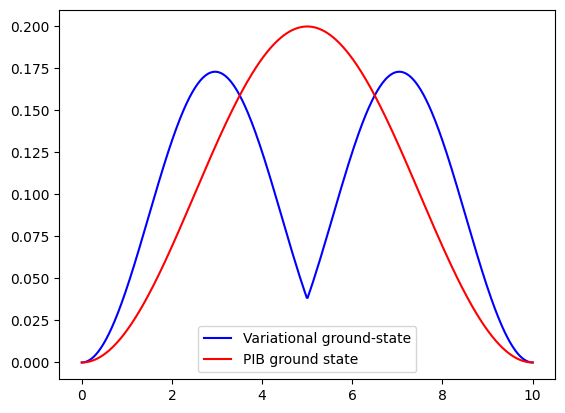
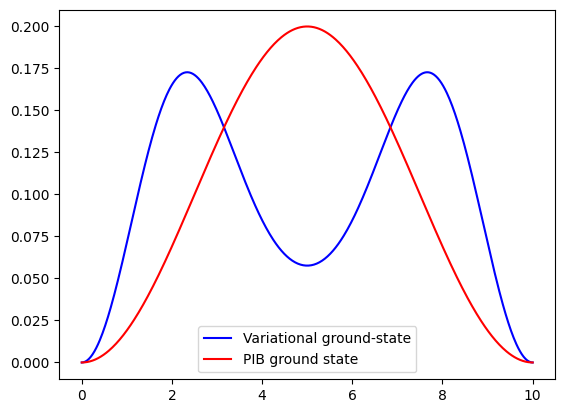
deploy: 4b36f2ce683e69f8d1d3397e4c16ad0eec627a58

diff --git a/searchindex.js b/searchindex.js
@@ -1,1 +1,1 @@
-Search.setIndex({docnames:["guidelines/guidelines","guidelines/intro","guidelines/template","intro","notebooks/fourier_transform","notebooks/linear_variational_method","team","workshops/intro","workshops/workshop2022","workshops/workshop2023"],envversion:{"sphinx.domains.c":2,"sphinx.domains.changeset":1,"sphinx.domains.citation":1,"sphinx.domains.cpp":5,"sphinx.domains.index":1,"sphinx.domains.javascript":2,"sphinx.domains.math":2,"sphinx.domains.python":3,"sphinx.domains.rst":2,"sphinx.domains.std":2,"sphinx.ext.intersphinx":1,"sphinxcontrib.bibtex":9,sphinx:56},filenames:["guidelines/guidelines.md","guidelines/intro.md","guidelines/template.ipynb","intro.md","notebooks/fourier_transform.ipynb","notebooks/linear_variational_method.ipynb","team.md","workshops/intro.md","workshops/workshop2022.md","workshops/workshop2023.md"],objects:{},objnames:{},objtypes:{},terms:{"0":[4,5],"0x7fe105ed8be0":5,"1":[4,9],"10":[4,5,6,9],"1000":4,"104":4,"108355":5,"11":9,"111":4,"12":[4,9],"1369":4,"14":4,"140993":5,"1500":4,"16":4,"165":4,"19":3,"2":4,"20":6,"2022":9,"2023":3,"21":3,"24934802200544676":5,"264":4,"2m":5,"3":[4,5],"30":4,"3x3":5,"4":[4,8,9],"4000":4,"44100":4,"44100hz":4,"45p7tcghgd74yzu77":9,"5":[4,5,6,9],"50":[4,5],"500":5,"5000":4,"50x50":5,"6":[8,9],"645":4,"646":4,"647":4,"649":4,"650":4,"6f":5,"7":[4,9],"70":[3,6],"7723":4,"8":[4,8,9],"800":4,"8000":4,"9":[4,9],"case":[4,5],"do":[0,3,4,5],"float":[4,5],"function":[0,4],"import":[0,2,4,5],"int":5,"new":[3,5,8,9],"return":[4,5],"short":4,"try":[0,4,5],"while":4,A:5,And:4,But:4,By:[2,4,5],For:4,If:[4,9],In:[4,5],Is:5,It:8,No:4,Not:4,On:4,One:4,That:4,The:[4,5,8],Then:4,There:[0,4],To:[4,5],_:4,__init__:4,_ax:4,_n:5,_read_riff_chunk:4,aaa:2,ab:4,abl:[2,4,5,9],about:[4,8],abouv:5,abov:5,access:[3,5],across:3,activ:[8,9],actual:5,add:[4,5],add_subplot:4,adopt:8,advanc:[3,9],against:5,ah:4,airport:9,all:[0,3,4,5,8,9],along:5,alphabet:6,alreadi:8,also:[2,4,5,8],altern:4,am:9,amplitud:[4,5],an:[4,5,9],ani:3,anoth:4,appear:5,appli:[4,5],applic:0,apprecit:3,approxim:5,ar:[0,4,5,6,8],arang:4,area:[4,9],argument:5,arrai:[4,5],artifici:4,asarrai:4,ashlei:9,assign:5,associ:8,astronomi:[3,8],atherton:6,atom:4,attend:9,attende:[8,9],averag:4,avoid:0,ax:4,axi:5,az:8,b:4,back:4,background:0,bai:9,base:8,basi:[4,5],basic:[0,4],bbb:2,beam:4,becaus:[4,5],becom:4,been:8,befor:[5,8],begin:5,below:[6,9],best:[8,9],between:5,bf:5,bin:4,biologi:3,bit:4,blokc:0,blue:5,board:6,bodi:2,bonu:5,both:[4,5],boundari:5,box:5,bra:5,breakfast:9,brenda:6,brian:6,bring:8,britt:6,brows:3,budget:8,build:[0,4,5],buzzer:4,c:[4,5],c_:4,c_m:5,c_n:5,c_opt:5,cal:9,calcul:5,calendar:[3,9],call:[4,5],can:[2,4,5,8],cannot:4,caram:[6,9],casei:6,cast:[4,5],cbook:4,ccc:2,cdot:4,cell:[2,4,5],center:5,chad:6,chanel:3,chang:[4,5],channel:4,chemic:4,chemistri:[3,8],chirp:4,christina:6,clara:3,clean:0,cmap:4,co:[3,4,6,9],code:[0,2,5,8],coeeffici:5,coeffici:[4,5],coher:0,collabor:[3,8],color:5,combin:9,come:[4,9],command:4,comment:0,commun:[6,8],compar:5,complet:[4,9],complex:[4,5],complexwarn:4,complic:4,compress:4,comput:5,computation:8,concept:0,conjug:5,consid:5,construct:4,contact:8,contain:0,content:[0,3],continu:[3,4,5],contribut:[2,3,5,6],contributor:3,convert:4,coordin:5,corner:4,corpor:[3,9],correspond:5,cosin:4,cost:[8,9],cottrel:[6,8],could:5,cours:[8,9],cover:8,covid19:8,craft:0,creat:[0,2,5],credit:3,cut:4,d:[4,5],dai:8,daniel:6,data:4,davit:[6,9],dedic:3,def:[4,5],defin:[4,5],del:4,delai:8,delet:4,delta:[4,5],delta_:5,demonstr:5,deni:6,deriv:5,design:4,develop:8,devot:8,diagon:5,diaton:4,differ:4,differenti:[4,5],dinner:9,dirac:5,directli:8,directori:4,discard:4,discret:4,discuss:[8,9],divid:4,divis:4,document:0,doe:5,doesn:4,domain:4,don:4,done:5,doremi:4,doremi_downscal:4,doremi_sample_r:4,dot:5,downscal:4,dr:2,drop:4,dt:4,due:8,dx:5,e:[4,5],e_n:5,e_opt:5,e_psi_1:5,easi:3,ecosystem:0,edit:6,educ:[3,9],eigenfunct:5,eigenst:5,eigenvalu:5,eigenvector:5,eigh:5,electr:4,element:5,els:[4,5],empti:5,enabl:4,encount:4,end:[2,4,5,8,9],energy_eigenfunct:5,energy_eigenvalu:5,enhanc:9,entri:5,equal:5,equat:[4,5],errno:4,error:4,escip:[6,8],establish:0,estim:5,etc:4,etci:2,euler:4,evalu:5,event:9,evolv:0,exact:5,exactli:4,exampl:[0,4,5],except:5,excess:0,excit:5,exercis:[0,8],exist:8,exp:4,expand:5,expans:5,expect:[4,5],explain:5,explan:0,express:5,f:[4,5],fa:4,faculti:[3,6,8,9],fals:4,fast:4,few:[0,4,5],fft:4,fft_mag:4,fft_out:4,fftpack:4,fid:4,fig:4,fig_siz:4,figur:4,file:4,file_s:4,filenam:4,filenotfounderror:4,fill:[5,9],find:[3,4,5],fingerprint:4,finit:4,first:[2,4,5],fit:9,focus:8,folei:6,follow:[0,5],footstep:4,form:9,forward:5,fouriertransform:4,frac:[4,5],free:[0,4,9],frequenc:4,from:[0,4,5,8,9],fs:4,ft:4,ftir:4,functio:5,g:[4,5],gener:[5,9],geoff:6,geoffrei:4,get:4,ghz:4,github:9,given:[4,5],gle:9,go:[4,5],goal:8,goe:5,good:5,grace:[6,8,9],graph:4,group:9,grow:6,h:[4,5],h_12:5,h_33:5,h_:5,h_mn:5,h_nm:5,ha:[5,8],had:4,hamiltonian:5,hamiltonian_matrix:5,hamiltonian_matrix_el:5,hand:[4,5],hat:5,have:[0,4,5,8],hbar:5,hc:5,heavili:4,height:4,held:[8,9],help:[5,9],helper:[4,5],here:[4,5],high:4,higher:[4,5],highli:3,hit:4,hold:3,hostedtoolcach:4,hotel:9,hous:8,how:[0,4,5],http:9,huge:4,hutchinson:6,hutchison:4,hydrogen:4,hz:4,i:[4,5],idea:4,identifi:5,idx:5,ifft:4,illustr:5,imag:4,imaginari:4,immedi:8,impact:5,improv:[4,5,8],includ:[5,8],incorpor:8,increas:[4,5],index:5,indic:[4,5],individu:[8,9],infin:4,inform:9,infti:4,initi:[3,5],input_sign:4,insert:2,insid:0,insight:5,instruct:5,instructor:[3,9],instrument:4,int_0:5,int_:4,integr:[4,5,9],intens:4,interact:0,interest:[3,8,9],introduc:4,introduct:9,invers:4,io:[4,9],iowa:9,ipywdiget:0,is_big_endian:4,ix:4,j:5,jan:3,join:3,jonathan:6,jpeg:4,juli:8,jupyt:[0,3,8],just:5,justin:[6,9],k:4,k_:4,keedi:6,keep:0,ket:5,keynot:9,keyword:[2,4],kinet:5,know:[4,5,9],kroneck:5,l:[4,5],label:5,lambda:4,laplac:4,last:4,later:5,learn:[0,3,8,9],least:4,left:[4,5],legend:5,len:4,length:[4,5],let:4,lib:[2,4],librari:[0,5],lightn:9,like:4,limit:4,linalg:5,line:4,link:[0,2],linspac:[4,5],list:[0,5,6,9],ll:4,local:4,locat:9,lodg:9,log10:4,londergan:6,look:[4,5],loop:5,lot:4,low:4,lower:[4,5],lowest:5,luchko:[6,9],lui:9,lunch:9,lundgren:6,m:[4,5],magnitud:4,mai:9,main:4,major:8,mambaforg:4,mani:[3,6],manufactur:4,map:4,mark:[3,9],markland:9,mass:5,materi:[0,9],math:4,mathrm:4,matplotlib:[0,2,4,5],matrix:5,matter:4,mcdonald:9,me:4,meal:[8,9],meet:[3,8],member:6,memori:4,mhz:4,mi:4,mid:5,middl:5,might:4,mile:9,minim:5,minimum:0,minor:4,mix:5,mmap:4,model:5,molecular:4,molssi:9,mono:4,montana:9,more:[4,5,8,9],most:4,mostli:4,movement:4,mp3:4,mr:2,much:[0,4],multipl:4,must:9,n:[4,5],n_basi:5,name:6,nation:3,natur:4,need:[4,5,9],neq:5,nest:5,network:3,neufeldt:9,next:5,nm:5,nmr:4,nois:4,none:4,normal:5,northridg:9,notat:[4,5],note:[4,5],notebook:[3,4,8],notic:[4,5],novic:8,now:5,np:[2,4,5],num_sampl:4,number:[4,5,8],numpi:[0,2,4,5],obispo:9,object:0,obtain:5,obvious:4,occur:4,off:4,offset:9,onc:4,one:4,onli:[4,5],open:[3,4],oper:5,opt:4,option:5,orbit:4,ord:0,order:6,ordinari:5,org:9,organ:[8,9],origin:4,other:0,our:[3,4,5,8],out:[4,5,9],outcom:8,outlin:0,outsid:9,over:[3,4,5,6],overlap:4,overton:4,packag:[0,4],panda:0,pandem:8,panel:3,part:4,particl:5,particular:5,peak:4,peculiar:5,pedagogi:8,pep8:0,pereplitsa:6,perfect:4,perform:4,period:4,perturb:5,phase:4,phi:5,phi_g:5,philosphi:0,photochemistri:2,physic:[3,8],pi:[3,4,5,6],pib:5,pittsburgh:4,plasma:4,pleas:[8,9],plot:[4,5],plotli:0,plt:[2,4,5],plu:9,pm:9,point:4,poli:9,posit:5,possibl:[0,4],potenti:5,potoyan:[6,9],ppm:4,practic:[8,9],prefer:0,prerequisit:0,presenc:5,pretti:4,print:5,problem:0,process:4,produc:8,prof:[4,9],program:9,programm:8,project:3,provid:[0,3,5,9],psi:5,psi_1:5,psi_m:5,psi_n:5,purpl:5,put:4,py:4,pyplot:[2,4,5],python3:[0,4],python:[0,4,5,8,9],pyviz:0,quantum:[2,5],r:4,rai:4,rang:[4,5],rapidli:0,rate:4,raw:4,rb:4,rcsa:3,re:4,read:4,real:[4,5],realli:4,reason:[4,5],rec:4,receiv:9,recent:4,recogn:5,reconstruct:4,record:4,red:5,region:4,registr:9,regular:3,reivew:6,rel:4,relat:[2,4],reli:0,remain:4,rememb:4,remov:4,repeat:[4,5],replac:5,report:9,repositori:9,repres:5,requir:4,research:[3,9],reserv:9,resolut:4,resourc:[0,8,9],respect:5,result:[4,5],retreat:9,revamp:8,rfft:4,rfreq:4,right:[3,4,5],rightarrow:4,rigid:0,ring:4,ringer:9,risko:6,rm:5,rsvp:9,rubenstein:6,rubi:6,runtimewarn:4,ryan:6,s:[4,5],s_:5,sai:4,same:[4,5],sampl:[4,5],sample_r:4,san:9,santa:3,scale:[4,5],schedul:8,scholar:[6,8],scholarship:9,scienc:[8,9],scientif:0,scipi:[0,2,4,5],scratch:0,seaborn:0,search:3,second:4,see:[2,4,5,9],seek:5,seem:4,select:[4,8],self:0,separ:4,septemb:9,seri:4,server:4,set:[0,4,5],set_size_inch:4,set_titl:4,set_xlabel:4,set_ylabel:4,setup_graph:4,share:[8,9],sharon:9,sharp:4,shift:4,shot:4,should:[0,2,4,5],show:[0,4,5],shuve:6,signal:[4,5],similar:[4,5],simpl:5,simpler:4,simplifi:4,sin:[4,5],sinc:[4,5],sine:4,sing:4,singl:5,site:4,size:5,sjc:9,skeleton:5,skill:9,slack:3,slice:5,slightli:4,small:9,so:[4,5],softwar:2,sol:4,solut:0,solv:4,some:4,sotr:0,sound:4,sourc:3,space:4,spec:4,specgram:4,special:[0,2,5],specif:4,specifi:5,spectra:4,spectrogram:4,spectroscopi:4,spikei:5,sponsor:9,spot:9,sqrt:[4,5],squar:4,stabl:0,standard:4,stanford:9,start:[4,5],state:9,statement:5,step:5,still:3,stoke:[6,8,9],store:5,student:[0,5],succinct:0,suggest:5,suitabl:4,sullan:6,sum:4,sum_:[4,5],sum_n:5,summari:0,support:[3,8],survei:9,system:5,systemat:5,t:[4,5],take:5,talk:[4,9],target:8,tba:6,teach:[8,9],team:3,technic:8,term:[4,5],test:4,than:[4,5],thank:[3,8],thei:4,theori:[0,5],thi:[2,4,5,8,9],thing:4,think:5,those:4,through:5,tim:6,time:[4,8,9],time_arrai:4,titl:4,togeth:8,tom:9,tool:8,top:6,topic:[2,3],tour:9,traceback:4,train:[3,9],trainor:6,transpos:5,tricki:4,turn:4,tuscon:8,two:[4,5,8],tyler:[6,9],ucla:9,unchang:4,unclear:4,uncom:5,undergradu:[8,9],understand:4,unfortun:4,unit_impuls:5,univ:9,univers:[3,4],until:8,up:4,upcom:[3,9],us:[0,2,3,4,5,8],usual:4,util:5,uv:4,v:5,v_x:5,valu:[4,5],variabl:[4,5],varieti:4,variou:3,ve:4,vector:5,veri:5,vi:4,video:4,vizcarra:6,vowel:4,wa:5,want:4,wav:4,wave:4,wavelength:4,wavelet:4,wavfil:4,we:[3,4,5,8,9],well:0,were:5,what:[0,4,5],whatev:4,when:[4,5],where:[4,5],which:[3,5,8],who:[6,8,9],whom:6,whose:5,why:5,wide:2,width:4,wikipedia:0,window:3,without:5,work:[4,5,8,9],workbook:5,workshop:3,worri:4,would:[4,5],write:[0,4,5,8,9],written:5,x64:4,x:[4,5],x_label:4,xf:4,xlabel:[4,5],xxx:2,y:4,y_label:4,yf:4,ylabel:5,you:[2,4,5,8,9],your:[3,5,9],yyi:2,z:4,zero:[4,5],zeros_lik:5,zzz:2},titles:["Format of notebooks","Guidelines","Template notebook","Enhancing Science Courses by Integrating Python (ESCIP)","Fourier Transforms","Linear Variational Method","Team","Workshops","Summer 2022 In-Person Workshop","January 2023 In-Person Workshop"],titleterms:{"1":[2,5],"19":9,"2":[2,5],"20":9,"2022":8,"2023":9,"21":9,"function":5,In:[8,9],about:3,approach:5,atom:5,audio:4,clara:9,contributor:6,cours:3,design:0,differ:5,energi:5,enhanc:3,escip:[3,9],exercsi:2,experi:5,form:5,format:0,fourier:4,frequent:6,fridai:9,ground:5,guidelin:[0,1],implement:5,integr:3,jan:9,januari:9,learn:5,linear:5,main:0,method:5,notebook:[0,2],object:[2,4,5],optim:5,other:4,outcom:5,part:5,person:[8,9],practic:5,problem:2,python:3,question:5,refer:2,santa:9,saturdai:9,schedul:9,scienc:3,section:0,state:5,subtitl:2,summari:[2,5],summer:8,team:6,templat:2,tent:9,thursdai:9,transform:4,trial:5,unit:5,univers:9,variat:5,visual:5,wavefunct:5,what:3,workshop:[7,8,9],worksop:9}})
+Search.setIndex({docnames:["guidelines/guidelines","guidelines/intro","guidelines/template","intro","notebooks/fourier_transform","notebooks/linear_variational_method","team","workshops/intro","workshops/workshop2022","workshops/workshop2023"],envversion:{"sphinx.domains.c":2,"sphinx.domains.changeset":1,"sphinx.domains.citation":1,"sphinx.domains.cpp":5,"sphinx.domains.index":1,"sphinx.domains.javascript":2,"sphinx.domains.math":2,"sphinx.domains.python":3,"sphinx.domains.rst":2,"sphinx.domains.std":2,"sphinx.ext.intersphinx":1,"sphinxcontrib.bibtex":9,sphinx:56},filenames:["guidelines/guidelines.md","guidelines/intro.md","guidelines/template.ipynb","intro.md","notebooks/fourier_transform.ipynb","notebooks/linear_variational_method.ipynb","team.md","workshops/intro.md","workshops/workshop2022.md","workshops/workshop2023.md"],objects:{},objnames:{},objtypes:{},terms:{"0":[4,5],"083613":5,"0x7fcdbfbe7eb0":5,"1":[4,9],"10":[4,5,6,9],"1000":4,"104":4,"11":9,"111":4,"12":[4,9],"1369":4,"14":4,"1500":4,"16":4,"165":4,"165735":5,"19":3,"2":4,"20":6,"2022":9,"2023":3,"21":3,"24934802200544676":5,"264":4,"2m":5,"3":[4,5],"30":4,"3x3":5,"4":[4,8,9],"4000":4,"44100":4,"44100hz":4,"45p7tcghgd74yzu77":9,"5":[4,5,6,9],"50":[4,5],"500":5,"5000":4,"50x50":5,"6":[8,9],"645":4,"646":4,"647":4,"649":4,"650":4,"6f":5,"7":[4,9],"70":[3,6],"7723":4,"8":[4,8,9],"800":4,"8000":4,"9":[4,9],"case":[4,5],"do":[0,3,4,5],"float":[4,5],"function":[0,4],"import":[0,2,4,5],"int":5,"new":[3,5,8,9],"return":[4,5],"short":4,"try":[0,4,5],"while":4,A:5,And:4,But:4,By:[2,4,5],For:4,If:[4,9],In:[4,5],Is:5,It:8,No:4,Not:4,On:4,One:4,That:4,The:[4,5,8],Then:4,There:[0,4],To:[4,5],_:4,__init__:4,_ax:4,_n:5,_read_riff_chunk:4,aaa:2,ab:4,abl:[2,4,5,9],about:[4,8],abouv:5,abov:5,access:[3,5],across:3,activ:[8,9],actual:5,add:[4,5],add_subplot:4,adopt:8,advanc:[3,9],against:5,ah:4,airport:9,all:[0,3,4,5,8,9],along:5,alphabet:6,alreadi:8,also:[2,4,5,8],altern:4,am:9,amplitud:[4,5],an:[4,5,9],ani:3,anoth:4,appear:5,appli:[4,5],applic:0,apprecit:3,approxim:5,ar:[0,4,5,6,8],arang:4,area:[4,9],argument:5,arrai:[4,5],artifici:4,asarrai:4,ashlei:9,assign:5,associ:8,astronomi:[3,8],atherton:6,atom:4,attend:9,attende:[8,9],averag:4,avoid:0,ax:4,axi:5,az:8,b:4,back:4,background:0,bai:9,base:8,basi:[4,5],basic:[0,4],bbb:2,beam:4,becaus:[4,5],becom:4,been:8,befor:[5,8],begin:5,below:[6,9],best:[8,9],between:5,bf:5,bin:4,biologi:3,bit:4,blokc:0,blue:5,board:6,bodi:2,bonu:5,both:[4,5],boundari:5,box:5,bra:5,breakfast:9,brenda:6,brian:6,bring:8,britt:6,brows:3,budget:8,build:[0,4,5],buzzer:4,c:[4,5],c_:4,c_m:5,c_n:5,c_opt:5,cal:9,calcul:5,calendar:[3,9],call:[4,5],can:[2,4,5,8],cannot:4,caram:[6,9],casei:6,cast:[4,5],cbook:4,ccc:2,cdot:4,cell:[2,4,5],center:5,chad:6,chanel:3,chang:[4,5],channel:4,chemic:4,chemistri:[3,8],chirp:4,christina:6,clara:3,clean:0,cmap:4,co:[3,4,6,9],code:[0,2,5,8],coeeffici:5,coeffici:[4,5],coher:0,collabor:[3,8],color:5,combin:9,come:[4,9],command:4,comment:0,commun:[6,8],compar:5,complet:[4,9],complex:[4,5],complexwarn:4,complic:4,compress:4,comput:5,computation:8,concept:0,conjug:5,consid:5,construct:4,contact:8,contain:0,content:[0,3],continu:[3,4,5],contribut:[2,3,5,6],contributor:3,convert:4,coordin:5,corner:4,corpor:[3,9],correspond:5,cosin:4,cost:[8,9],cottrel:[6,8],could:5,cours:[8,9],cover:8,covid19:8,craft:0,creat:[0,2,5],credit:3,cut:4,d:[4,5],dai:8,daniel:6,data:4,davit:[6,9],dedic:3,def:[4,5],defin:[4,5],del:4,delai:8,delet:4,delta:[4,5],delta_:5,demonstr:5,deni:6,deriv:5,design:4,develop:8,devot:8,diagon:5,diaton:4,differ:4,differenti:[4,5],dinner:9,dirac:5,directli:8,directori:4,discard:4,discret:4,discuss:[8,9],divid:4,divis:4,document:0,doe:5,doesn:4,domain:4,don:4,done:5,doremi:4,doremi_downscal:4,doremi_sample_r:4,dot:5,downscal:4,dr:2,drop:4,dt:4,due:8,dx:5,e:[4,5],e_n:5,e_opt:5,e_psi_1:5,easi:3,ecosystem:0,edit:6,educ:[3,9],eigenfunct:5,eigenst:5,eigenvalu:5,eigenvector:5,eigh:5,electr:4,element:5,els:[4,5],empti:5,enabl:4,encount:4,end:[2,4,5,8,9],energy_eigenfunct:5,energy_eigenvalu:5,enhanc:9,entri:5,equal:5,equat:[4,5],errno:4,error:4,escip:[6,8],establish:0,estim:5,etc:4,etci:2,euler:4,evalu:5,event:9,evolv:0,exact:5,exactli:4,exampl:[0,4,5],except:5,excess:0,excit:5,exercis:[0,8],exist:8,exp:4,expand:5,expans:5,expect:[4,5],explain:5,explan:0,express:5,f:[4,5],fa:4,faculti:[3,6,8,9],fals:4,fast:4,few:[0,4,5],fft:4,fft_mag:4,fft_out:4,fftpack:4,fid:4,fig:4,fig_siz:4,figur:4,file:4,file_s:4,filenam:4,filenotfounderror:4,fill:[5,9],find:[3,4,5],fingerprint:4,finit:4,first:[2,4,5],fit:9,focus:8,folei:6,follow:[0,5],footstep:4,form:9,forward:5,fouriertransform:4,frac:[4,5],free:[0,4,9],frequenc:4,from:[0,4,5,8,9],fs:4,ft:4,ftir:4,functio:5,g:[4,5],gener:[5,9],geoff:6,geoffrei:4,get:4,ghz:4,github:9,given:[4,5],gle:9,go:[4,5],goal:8,goe:5,good:5,grace:[6,8,9],graph:4,group:9,grow:6,h:[4,5],h_12:5,h_33:5,h_:5,h_mn:5,h_nm:5,ha:[5,8],had:4,hamiltonian:5,hamiltonian_matrix:5,hamiltonian_matrix_el:5,hand:[4,5],hat:5,have:[0,4,5,8],hbar:5,hc:5,heavili:4,height:4,held:[8,9],help:[5,9],helper:[4,5],here:[4,5],high:4,higher:[4,5],highli:3,hit:4,hold:3,hostedtoolcach:4,hotel:9,hous:8,how:[0,4,5],http:9,huge:4,hutchinson:6,hutchison:4,hydrogen:4,hz:4,i:[4,5],idea:4,identifi:5,idx:5,ifft:4,illustr:5,imag:4,imaginari:4,immedi:8,impact:5,improv:[4,5,8],includ:[5,8],incorpor:8,increas:[4,5],index:5,indic:[4,5],individu:[8,9],infin:4,inform:9,infti:4,initi:[3,5],input_sign:4,insert:2,insid:0,insight:5,instruct:5,instructor:[3,9],instrument:4,int_0:5,int_:4,integr:[4,5,9],intens:4,interact:0,interest:[3,8,9],introduc:4,introduct:9,invers:4,io:[4,9],iowa:9,ipywdiget:0,is_big_endian:4,ix:4,j:5,jan:3,join:3,jonathan:6,jpeg:4,juli:8,jupyt:[0,3,8],just:5,justin:[6,9],k:4,k_:4,keedi:6,keep:0,ket:5,keynot:9,keyword:[2,4],kinet:5,know:[4,5,9],kroneck:5,l:[4,5],label:5,lambda:4,laplac:4,last:4,later:5,learn:[0,3,8,9],least:4,left:[4,5],legend:5,len:4,length:[4,5],let:4,lib:[2,4],librari:[0,5],lightn:9,like:4,limit:4,linalg:5,line:4,link:[0,2],linspac:[4,5],list:[0,5,6,9],ll:4,local:4,locat:9,lodg:9,log10:4,londergan:6,look:[4,5],loop:5,lot:4,low:4,lower:[4,5],lowest:5,luchko:[6,9],lui:9,lunch:9,lundgren:6,m:[4,5],magnitud:4,mai:9,main:4,major:8,mambaforg:4,mani:[3,6],manufactur:4,map:4,mark:[3,9],markland:9,mass:5,materi:[0,9],math:4,mathrm:4,matplotlib:[0,2,4,5],matrix:5,matter:4,mcdonald:9,me:4,meal:[8,9],meet:[3,8],member:6,memori:4,mhz:4,mi:4,mid:5,middl:5,might:4,mile:9,minim:5,minimum:0,minor:4,mix:5,mmap:4,model:5,molecular:4,molssi:9,mono:4,montana:9,more:[4,5,8,9],most:4,mostli:4,movement:4,mp3:4,mr:2,much:[0,4],multipl:4,must:9,n:[4,5],n_basi:5,name:6,nation:3,natur:4,need:[4,5,9],neq:5,nest:5,network:3,neufeldt:9,next:5,nm:5,nmr:4,nois:4,none:4,normal:5,northridg:9,notat:[4,5],note:[4,5],notebook:[3,4,8],notic:[4,5],novic:8,now:5,np:[2,4,5],num_sampl:4,number:[4,5,8],numpi:[0,2,4,5],obispo:9,object:0,obtain:5,obvious:4,occur:4,off:4,offset:9,onc:4,one:4,onli:[4,5],open:[3,4],oper:5,opt:4,option:5,orbit:4,ord:0,order:6,ordinari:5,org:9,organ:[8,9],origin:4,other:0,our:[3,4,5,8],out:[4,5,9],outcom:8,outlin:0,outsid:9,over:[3,4,5,6],overlap:4,overton:4,packag:[0,4],panda:0,pandem:8,panel:3,part:4,particl:5,particular:5,peak:4,peculiar:5,pedagogi:8,pep8:0,pereplitsa:6,perfect:4,perform:4,period:4,perturb:5,phase:4,phi:5,phi_g:5,philosphi:0,photochemistri:2,physic:[3,8],pi:[3,4,5,6],pib:5,pittsburgh:4,plasma:4,pleas:[8,9],plot:[4,5],plotli:0,plt:[2,4,5],plu:9,pm:9,point:4,poli:9,posit:5,possibl:[0,4],potenti:5,potoyan:[6,9],ppm:4,practic:[8,9],prefer:0,prerequisit:0,presenc:5,pretti:4,print:5,problem:0,process:4,produc:8,prof:[4,9],program:9,programm:8,project:3,provid:[0,3,5,9],psi:5,psi_1:5,psi_m:5,psi_n:5,purpl:5,put:4,py:4,pyplot:[2,4,5],python3:[0,4],python:[0,4,5,8,9],pyviz:0,quantum:[2,5],r:4,rai:4,rang:[4,5],rapidli:0,rate:4,raw:4,rb:4,rcsa:3,re:4,read:4,real:[4,5],realli:4,reason:[4,5],rec:4,receiv:9,recent:4,recogn:5,reconstruct:4,record:4,red:5,region:4,registr:9,regular:3,reivew:6,rel:4,relat:[2,4],reli:0,remain:4,rememb:4,remov:4,repeat:[4,5],replac:5,report:9,repositori:9,repres:5,requir:4,research:[3,9],reserv:9,resolut:4,resourc:[0,8,9],respect:5,result:[4,5],retreat:9,revamp:8,rfft:4,rfreq:4,right:[3,4,5],rightarrow:4,rigid:0,ring:4,ringer:9,risko:6,rm:5,rsvp:9,rubenstein:6,rubi:6,runtimewarn:4,ryan:6,s:[4,5],s_:5,sai:4,same:[4,5],sampl:[4,5],sample_r:4,san:9,santa:3,scale:[4,5],schedul:8,scholar:[6,8],scholarship:9,scienc:[8,9],scientif:0,scipi:[0,2,4,5],scratch:0,seaborn:0,search:3,second:4,see:[2,4,5,9],seek:5,seem:4,select:[4,8],self:0,separ:4,septemb:9,seri:4,server:4,set:[0,4,5],set_size_inch:4,set_titl:4,set_xlabel:4,set_ylabel:4,setup_graph:4,share:[8,9],sharon:9,sharp:4,shift:4,shot:4,should:[0,2,4,5],show:[0,4,5],shuve:6,signal:[4,5],similar:[4,5],simpl:5,simpler:4,simplifi:4,sin:[4,5],sinc:[4,5],sine:4,sing:4,singl:5,site:4,size:5,sjc:9,skeleton:5,skill:9,slack:3,slice:5,slightli:4,small:9,so:[4,5],softwar:2,sol:4,solut:0,solv:4,some:4,sotr:0,sound:4,sourc:3,space:4,spec:4,specgram:4,special:[0,2,5],specif:4,specifi:5,spectra:4,spectrogram:4,spectroscopi:4,spikei:5,sponsor:9,spot:9,sqrt:[4,5],squar:4,stabl:0,standard:4,stanford:9,start:[4,5],state:9,statement:5,step:5,still:3,stoke:[6,8,9],store:5,student:[0,5],succinct:0,suggest:5,suitabl:4,sullan:6,sum:4,sum_:[4,5],sum_n:5,summari:0,support:[3,8],survei:9,system:5,systemat:5,t:[4,5],take:5,talk:[4,9],target:8,tba:6,teach:[8,9],team:3,technic:8,term:[4,5],test:4,than:[4,5],thank:[3,8],thei:4,theori:[0,5],thi:[2,4,5,8,9],thing:4,think:5,those:4,through:5,tim:6,time:[4,8,9],time_arrai:4,titl:4,togeth:8,tom:9,tool:8,top:6,topic:[2,3],tour:9,traceback:4,train:[3,9],trainor:6,transpos:5,tricki:4,turn:4,tuscon:8,two:[4,5,8],tyler:[6,9],ucla:9,unchang:4,unclear:4,uncom:5,undergradu:[8,9],understand:4,unfortun:4,unit_impuls:5,univ:9,univers:[3,4],until:8,up:4,upcom:[3,9],us:[0,2,3,4,5,8],usual:4,util:5,uv:4,v:5,v_x:5,valu:[4,5],variabl:[4,5],varieti:4,variou:3,ve:4,vector:5,veri:5,vi:4,video:4,vizcarra:6,vowel:4,wa:5,want:4,wav:4,wave:4,wavelength:4,wavelet:4,wavfil:4,we:[3,4,5,8,9],well:0,were:5,what:[0,4,5],whatev:4,when:[4,5],where:[4,5],which:[3,5,8],who:[6,8,9],whom:6,whose:5,why:5,wide:2,width:4,wikipedia:0,window:3,without:5,work:[4,5,8,9],workbook:5,workshop:3,worri:4,would:[4,5],write:[0,4,5,8,9],written:5,x64:4,x:[4,5],x_label:4,xf:4,xlabel:[4,5],xxx:2,y:4,y_label:4,yf:4,ylabel:5,you:[2,4,5,8,9],your:[3,5,9],yyi:2,z:4,zero:[4,5],zeros_lik:5,zzz:2},titles:["Format of notebooks","Guidelines","Template notebook","Enhancing Science Courses by Integrating Python (ESCIP)","Fourier Transforms","Linear Variational Method","Team","Workshops","Summer 2022 In-Person Workshop","January 2023 In-Person Workshop"],titleterms:{"1":[2,5],"19":9,"2":[2,5],"20":9,"2022":8,"2023":9,"21":9,"function":5,In:[8,9],about:3,approach:5,atom:5,audio:4,clara:9,contributor:6,cours:3,design:0,differ:5,energi:5,enhanc:3,escip:[3,9],exercsi:2,experi:5,form:5,format:0,fourier:4,frequent:6,fridai:9,ground:5,guidelin:[0,1],implement:5,integr:3,jan:9,januari:9,learn:5,linear:5,main:0,method:5,notebook:[0,2],object:[2,4,5],optim:5,other:4,outcom:5,part:5,person:[8,9],practic:5,problem:2,python:3,question:5,refer:2,santa:9,saturdai:9,schedul:9,scienc:3,section:0,state:5,subtitl:2,summari:[2,5],summer:8,team:6,templat:2,tent:9,thursdai:9,transform:4,trial:5,unit:5,univers:9,variat:5,visual:5,wavefunct:5,what:3,workshop:[7,8,9],worksop:9}})

diff --git a/notebooks/linear_variational_method.html b/notebooks/linear_variational_method.html
@@ -667,15 +667,15 @@ except for the presence of this peculiar spikey potential right in the middle of
 <section id="form-of-the-trial-wavefunction">
 <h2>Form of the trial wavefunction<a class="headerlink" href="#form-of-the-trial-wavefunction" title="Permalink to this headline">#</a></h2>
 <p>In particular, we will optimize the trial wavefunction given by</p>
-<div class="amsmath math notranslate nohighlight" id="equation-e72bfa49-3fcf-4be3-a716-1f82d5afcbc9">
-<span class="eqno">(1)<a class="headerlink" href="#equation-e72bfa49-3fcf-4be3-a716-1f82d5afcbc9" title="Permalink to this equation">#</a></span>\[\begin{equation}
+<div class="amsmath math notranslate nohighlight" id="equation-5e3a57eb-b188-4ae6-98c9-174c0d001e0f">
+<span class="eqno">(1)<a class="headerlink" href="#equation-5e3a57eb-b188-4ae6-98c9-174c0d001e0f" title="Permalink to this equation">#</a></span>\[\begin{equation}
 \Phi(x) = \sum_{n=1}^N c_n \psi_n(x)
 \end{equation}\]</div>
 <p>where the expansion coefficients <span class="math notranslate nohighlight">\(c_n\)</span> are real numbers
 and <span class="math notranslate nohighlight">\(\psi_n(x)\)</span> are the energy eigenfunctions of the ordinary particle in a box that has no potential
 between <span class="math notranslate nohighlight">\(x=0\)</span> and <span class="math notranslate nohighlight">\(x=L\)</span>.  In particular, these eigenfunctions have the form</p>
-<div class="amsmath math notranslate nohighlight" id="equation-eddfd4cb-b453-448b-b7ac-16b1907e54ae">
-<span class="eqno">(2)<a class="headerlink" href="#equation-eddfd4cb-b453-448b-b7ac-16b1907e54ae" title="Permalink to this equation">#</a></span>\[\begin{equation}
+<div class="amsmath math notranslate nohighlight" id="equation-c67246be-99f4-49a8-afeb-c7e46b0a7c05">
+<span class="eqno">(2)<a class="headerlink" href="#equation-c67246be-99f4-49a8-afeb-c7e46b0a7c05" title="Permalink to this equation">#</a></span>\[\begin{equation}
 \psi_n(x) = \sqrt{\frac{2}{10} } {\rm sin}\left(\frac{n \pi x}{10} \right).
 \end{equation}\]</div>
 </section>
@@ -683,8 +683,8 @@ between <span class="math notranslate nohighlight">\(x=0\)</span> and <span clas
 <h2>Form of the energy functional<a class="headerlink" href="#form-of-the-energy-functional" title="Permalink to this headline">#</a></h2>
 <p>We will seek to minimize the energy functional through the expansion coefficients, where the
 energy functional can be written as</p>
-<div class="amsmath math notranslate nohighlight" id="equation-b0dbaec3-ded3-4057-bedf-6ff0b65d92e7">
-<span class="eqno">(3)<a class="headerlink" href="#equation-b0dbaec3-ded3-4057-bedf-6ff0b65d92e7" title="Permalink to this equation">#</a></span>\[\begin{equation}
+<div class="amsmath math notranslate nohighlight" id="equation-ac43e31f-c0d3-4ed1-b2bc-26f89ab6a370">
+<span class="eqno">(3)<a class="headerlink" href="#equation-ac43e31f-c0d3-4ed1-b2bc-26f89ab6a370" title="Permalink to this equation">#</a></span>\[\begin{equation}
 E[\Phi(x)] = \frac{\int_0^{10} \Phi^* (x) \: \hat{H} \: \Phi(x) dx }{\int_0^{10} \Phi^* (x) \: \Phi(x) dx },
 \end{equation}\]</div>
 <p>where we have recognized that the boundaries of the box are at <span class="math notranslate nohighlight">\(x=0\)</span> and <span class="math notranslate nohighlight">\(x=10\)</span>, so our range of integration
@@ -694,23 +694,23 @@ goes between these boundaries.</p>
 <h2>Atomic Units<a class="headerlink" href="#atomic-units" title="Permalink to this headline">#</a></h2>
 <p>We will express our Hamiltonian in atomic units where <span class="math notranslate nohighlight">\(\hbar = 1\)</span> and <span class="math notranslate nohighlight">\(m = 1\)</span>, so we can write the Hamiltonian in
 this unit system as:</p>
-<div class="amsmath math notranslate nohighlight" id="equation-1d315d3c-d946-458c-9c6d-0c67b603b743">
-<span class="eqno">(4)<a class="headerlink" href="#equation-1d315d3c-d946-458c-9c6d-0c67b603b743" title="Permalink to this equation">#</a></span>\[\begin{equation}
+<div class="amsmath math notranslate nohighlight" id="equation-25807178-ae32-4db2-88da-5ca8645db625">
+<span class="eqno">(4)<a class="headerlink" href="#equation-25807178-ae32-4db2-88da-5ca8645db625" title="Permalink to this equation">#</a></span>\[\begin{equation}
 \hat{H} = -\frac{1}{2} \frac{d^2}{dx^2} + \delta(x-5).
 \end{equation}\]</div>
 <p><span class="math notranslate nohighlight">\(E[\Phi(x)]\)</span> can be expanded as</p>
-<div class="amsmath math notranslate nohighlight" id="equation-de59efc9-d864-48ed-b17c-dee280b1bf40">
-<span class="eqno">(5)<a class="headerlink" href="#equation-de59efc9-d864-48ed-b17c-dee280b1bf40" title="Permalink to this equation">#</a></span>\[\begin{equation}
+<div class="amsmath math notranslate nohighlight" id="equation-850a1b44-bb0a-4a22-a771-c0ab5686ede1">
+<span class="eqno">(5)<a class="headerlink" href="#equation-850a1b44-bb0a-4a22-a771-c0ab5686ede1" title="Permalink to this equation">#</a></span>\[\begin{equation}
 E[\Phi(x)] \sum_{n=1}^N \sum_{m=1}^N c^*_n c_m S_{nm} = \sum_{n=1}^N \sum_{m=1}^N c^*_n c_m H_{nm}
 \end{equation}\]</div>
 <p>where</p>
-<div class="amsmath math notranslate nohighlight" id="equation-7c638b64-1267-4536-aac2-240f484693c8">
-<span class="eqno">(6)<a class="headerlink" href="#equation-7c638b64-1267-4536-aac2-240f484693c8" title="Permalink to this equation">#</a></span>\[\begin{equation}
+<div class="amsmath math notranslate nohighlight" id="equation-31936cec-548c-4672-9090-402266f3b0ef">
+<span class="eqno">(6)<a class="headerlink" href="#equation-31936cec-548c-4672-9090-402266f3b0ef" title="Permalink to this equation">#</a></span>\[\begin{equation}
 S_{nm} = \int_0^L \psi^*_n(x) \psi_m(x) dx = \delta_{nm}
 \end{equation}\]</div>
 <p>and</p>
-<div class="amsmath math notranslate nohighlight" id="equation-2b2f7832-d15b-48b0-b95e-67fb2e3320c9">
-<span class="eqno">(7)<a class="headerlink" href="#equation-2b2f7832-d15b-48b0-b95e-67fb2e3320c9" title="Permalink to this equation">#</a></span>\[\begin{equation}
+<div class="amsmath math notranslate nohighlight" id="equation-49084cb3-e864-4710-99d9-5852c8ba6c19">
+<span class="eqno">(7)<a class="headerlink" href="#equation-49084cb3-e864-4710-99d9-5852c8ba6c19" title="Permalink to this equation">#</a></span>\[\begin{equation}
 H_{nm} = \int_0^L \psi^*_n(x) \hat{H} \psi_m(x) dx. 
 \end{equation}\]</div>
 <p>In the equation for <span class="math notranslate nohighlight">\(S_{nm}\)</span>, <span class="math notranslate nohighlight">\(\delta_{nm}\)</span> is called the Kronecker delta function, and it is equal to 1 if <span class="math notranslate nohighlight">\(n = m\)</span> and 0 if <span class="math notranslate nohighlight">\(n \neq m\)</span>.
@@ -731,13 +731,13 @@ the value of the integral <span class="math notranslate nohighlight">\(H_{nm}\)<
 </li>
 <li><p><strong>(Bonus)</strong> Show that differentiating the energy functional with respect to all coefficients and setting the derivative to zero results in the following set of equations:</p></li>
 </ol>
-<div class="amsmath math notranslate nohighlight" id="equation-37dd4169-a5c1-45e0-a820-ed3f51ddb14d">
-<span class="eqno">(8)<a class="headerlink" href="#equation-37dd4169-a5c1-45e0-a820-ed3f51ddb14d" title="Permalink to this equation">#</a></span>\[\begin{equation}
+<div class="amsmath math notranslate nohighlight" id="equation-efc6a425-2c6c-44c5-8fd0-240e57a1e1d3">
+<span class="eqno">(8)<a class="headerlink" href="#equation-efc6a425-2c6c-44c5-8fd0-240e57a1e1d3" title="Permalink to this equation">#</a></span>\[\begin{equation}
 \sum_n^N H_{nm} c_n = E[\Phi(x)] c_m
 \end{equation}\]</div>
 <p>This can be written as an eigenvalue equation</p>
-<div class="amsmath math notranslate nohighlight" id="equation-d172fea6-46d1-4c8e-a43d-2cba35710983">
-<span class="eqno">(9)<a class="headerlink" href="#equation-d172fea6-46d1-4c8e-a43d-2cba35710983" title="Permalink to this equation">#</a></span>\[\begin{equation}
+<div class="amsmath math notranslate nohighlight" id="equation-87d6cbeb-ebd8-48f7-b5c6-a26b9abafce8">
+<span class="eqno">(9)<a class="headerlink" href="#equation-87d6cbeb-ebd8-48f7-b5c6-a26b9abafce8" title="Permalink to this equation">#</a></span>\[\begin{equation}
 {\bf H} {\bf c} = E {\bf c},
 \end{equation}\]</div>
 <p>where <span class="math notranslate nohighlight">\({\bf H}\)</span> is the matrix whose elements are given by <span class="math notranslate nohighlight">\(H_{nm}\)</span> and <span class="math notranslate nohighlight">\({\bf c}\)</span> is the vector of coefficients.</p>
@@ -824,7 +824,7 @@ the value of the integral <span class="math notranslate nohighlight">\(H_{nm}\)<
 <div class="cell docutils container">
 <div class="cell_input docutils container">
 <div class="highlight-ipython3 notranslate"><div class="highlight"><pre><span></span><span class="c1"># set the number of basis functions - start with 3, can add more later!</span>
-<span class="n">n_basis</span> <span class="o">=</span> <span class="mi">500</span>
+<span class="n">n_basis</span> <span class="o">=</span> <span class="mi">3</span>
 <span class="c1"># initialize Hamiltonian_matrix as (n_basis x n_basis) array of zeros</span>
 <span class="n">Hamiltonian_matrix</span> <span class="o">=</span> <span class="n">np</span><span class="o">.</span><span class="n">zeros</span><span class="p">((</span><span class="n">n_basis</span><span class="p">,</span> <span class="n">n_basis</span><span class="p">))</span>
 
@@ -843,17 +843,17 @@ the value of the integral <span class="math notranslate nohighlight">\(H_{nm}\)<
 </div>
 </div>
 <p>Before systematically identifying the optimal coefficients, it is instructive to try a few “trial” wavefunctions “by hand”.  A few suggestions include:</p>
-<div class="amsmath math notranslate nohighlight" id="equation-40e86862-2dd3-4c1a-93b9-4cef9cb14037">
-<span class="eqno">(10)<a class="headerlink" href="#equation-40e86862-2dd3-4c1a-93b9-4cef9cb14037" title="Permalink to this equation">#</a></span>\[\begin{equation}
+<div class="amsmath math notranslate nohighlight" id="equation-e7351578-f5b4-4d7b-9739-1ecb6ec654e6">
+<span class="eqno">(10)<a class="headerlink" href="#equation-e7351578-f5b4-4d7b-9739-1ecb6ec654e6" title="Permalink to this equation">#</a></span>\[\begin{equation}
 {\bf c} = \left(1, 0, 0 \right) \;  {\bf c} = \left(0, 1, 0 \right) \: {\bf c} = \left(0, 0, 1 \right)
 \end{equation}\]</div>
-<div class="amsmath math notranslate nohighlight" id="equation-9caa27b3-9a7a-477d-bcd4-c0cee5978a57">
-<span class="eqno">(11)<a class="headerlink" href="#equation-9caa27b3-9a7a-477d-bcd4-c0cee5978a57" title="Permalink to this equation">#</a></span>\[\begin{equation}
+<div class="amsmath math notranslate nohighlight" id="equation-172344ba-00ee-4fd2-a68f-0594f73f1117">
+<span class="eqno">(11)<a class="headerlink" href="#equation-172344ba-00ee-4fd2-a68f-0594f73f1117" title="Permalink to this equation">#</a></span>\[\begin{equation}
 {\bf c} = \left(\sqrt{1/2}, \sqrt{1/2}, 0 \right) \;  {\bf c} = \left(0, \sqrt{1/2}, \sqrt{1/2} \right) \: {\bf c} = \left(\sqrt{1/2}, 0, \sqrt{1/2} \right)
 \end{equation}\]</div>
 <p>In Matrix form, the energy functional can be computed as follows:</p>
-<div class="amsmath math notranslate nohighlight" id="equation-66530f4c-2733-4462-a371-ff598b7b2787">
-<span class="eqno">(12)<a class="headerlink" href="#equation-66530f4c-2733-4462-a371-ff598b7b2787" title="Permalink to this equation">#</a></span>\[\begin{equation}
+<div class="amsmath math notranslate nohighlight" id="equation-668b980c-0f64-406b-a576-161da300b85f">
+<span class="eqno">(12)<a class="headerlink" href="#equation-668b980c-0f64-406b-a576-161da300b85f" title="Permalink to this equation">#</a></span>\[\begin{equation}
 E = {\bf c}^t {\bf H} {\bf c}
 \end{equation}\]</div>
 <p>where <span class="math notranslate nohighlight">\({\bf c}^t\)</span> is just the transpose of <span class="math notranslate nohighlight">\({\bf c}\)</span>.  Using numpy, this can be done with the Hamiltonian matrix defined abouve and a vector <span class="math notranslate nohighlight">\({\bf c} = \left(1, 0, 0 \right)\)</span> as follows:</p>
@@ -914,8 +914,8 @@ we can find the Variational ground-state energy and wavefunction through the fol
 </div>
 </div>
 <div class="cell_output docutils container">
-<div class="output stream highlight-myst-ansi notranslate"><div class="highlight"><pre><span></span>The variational ground state energy with 500 basis functions is 0.140993 atomic units
-This result is 0.108355 atomic units lower than if we used \psi_1 as a trial wavefunction.
+<div class="output stream highlight-myst-ansi notranslate"><div class="highlight"><pre><span></span>The variational ground state energy with 3 basis functions is 0.165735 atomic units
+This result is 0.083613 atomic units lower than if we used \psi_1 as a trial wavefunction.
 </pre></div>
 </div>
 </div>
@@ -950,7 +950,7 @@ The ground-state eigenvector can be accessed as a slice of <code class="docutils
 </div>
 </div>
 <div class="cell_output docutils container">
-<div class="output text_plain highlight-myst-ansi notranslate"><div class="highlight"><pre><span></span>&lt;matplotlib.legend.Legend at 0x7fe105ed8be0&gt;
+<div class="output text_plain highlight-myst-ansi notranslate"><div class="highlight"><pre><span></span>&lt;matplotlib.legend.Legend at 0x7fcdbfbe7eb0&gt;
 </pre></div>
 </div>
 <img alt="../_images/linear_variational_method_12_1.png" src="../_images/linear_variational_method_12_1.png" />
